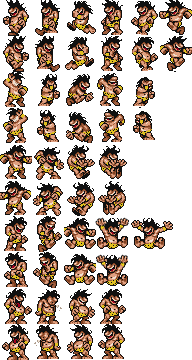
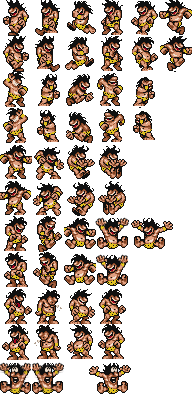
ENEMIES: hello, bears!

diff --git a/pre2.js b/pre2.js
@@ -168,6 +168,7 @@
 	    game.load.spritesheet('lives', './assets/lives.png', 38, 24);
 	    game.load.spritesheet('dino', './assets/dino.png', 42, 36);
 	    game.load.spritesheet('ptero', './assets/pterodactylus.png', 62, 50);
+	    game.load.spritesheet('bear', './assets/bears.png', 44, 44);
 	    game.load.spritesheet('man', './assets/man.png', 32, 36);
 	    game.load.spritesheet('club', './assets/clubs-96x72.png', 96, 36);
 	    
@@ -385,6 +386,9 @@
 	  }
 	  
 	  function onEnemyCollision(hero, enemy){
+	    if(enemy.state === 'dead'){
+	      return;
+	    }
 	    if(man.body.touching.down && enemy.body.touching.up){
 	      if(man.state === 'hitting'){
 	        enemy.die();
@@ -502,7 +506,7 @@
 	    gravity: 500,
 	    bounce: 0.2,
 	    jumping: 300,
-	    maxSpeed: 200,
+	    maxSpeed: 100,
 	    acceleration: 10, 
 	    lives: 1, 
 	    lifespan: 10000,
@@ -526,7 +530,7 @@
 	    ]
 	  },
 	  dino: {
-	    jumping: 400,
+	    jumping: 300,
 	    maxSpeed: 50,
 	    acceleration: 5, 
 	    animations: [
@@ -540,11 +544,18 @@
 	  },
 	  bear: {
 	    acceleration: 15, 
-	    animations: [] 
+	    animations: [
+	      { name: 'moving-right', frames: [4,5,6], fps: 10, loop: true },
+	      { name: 'moving-left', frames: [11,10,9], fps: 10, loop: true },
+	      { name: 'spawn-right', frames: [0,1,2,3], fps: 10, loop: false },
+	      { name: 'spawn-left', frames: [15,14,13,12], fps: 10, loop: false },
+	      { name: 'dead-right', frames: [7], fps: 10, loop: true },
+	      { name: 'dead-left', frames: [8], fps: 10, loop: true }
+	    ] 
 	  },
 	  'super-bear': {
 	    acceleration: 30,
-	    maxSpeed: 400,
+	    maxSpeed: 200,
 	    image: 'super-bear-sprite-ref', // override sprite (creature name by default)
 	    animations: []
 	  },
@@ -615,6 +626,16 @@
 	      mixins.moveRight.call(this, overrideAcc) : 
 	      mixins.moveLeft.call(this, overrideAcc);
 	  },
+	  turnIfBlocked: function(){
+	    if(this.body.blocked.left){ 
+	      mixins.moveRight.call(this); 
+	      this.state = 'moving';
+	    }
+	    if(this.body.blocked.right){ 
+	      mixins.moveLeft.call(this); 
+	      this.state = 'moving';
+	    }
+	  },
 	  jump: function(){
 	    if(this.body.touching.down || this.body.blocked.down){
 	      this.body.velocity.y -= this.props.jumping;
@@ -640,8 +661,9 @@
 	  },
 	  die: function(){
 	    this.state = 'dead';
-	    this.body.velocity.y -= Math.random() * 500;
-	    this.game.time.events.add(Phaser.Timer.SECOND * 1, this.kill, this);
+	    this.body.velocity.y -= Math.random() * 800;
+	    // http://www.html5gamedevs.com/topic/6429-use-phasertime-like-settimeout/
+	    this.game.time.events.add(Phaser.Timer.SECOND * 2, this.kill, this);
 	  },
 	  see: function(){},
 	  sniff: function(enemy){
@@ -685,15 +707,23 @@
 	    this.move = mixins.move;
 	    this.jump = mixins.jump;
 	    this.wait = mixins.wait;
+	    this.turnIfBlocked = mixins.turnIfBlocked;
 	    this.die = mixins.die;
 	    return this;
 	  },
 	  ptero: function(){
 	    this.moveRight = mixins.moveRight;
 	    this.moveLeft = mixins.moveLeft;
+	    this.turnIfBlocked = mixins.turnIfBlocked;
 	    this.descend = mixins.descend;
 	    this.ascend = mixins.ascend;
 	    return this;
+	  },
+	  bear: function(){
+	    this.moveRight = mixins.moveRight;
+	    this.moveLeft = mixins.moveLeft;
+	    this.turnIfBlocked = mixins.turnIfBlocked;
+	    this.die = mixins.die;
 	  }
 	};
 
@@ -702,19 +732,15 @@
 	  dino: function(){
 	    this.play(this.state + '-' + this.direction());
 	    if(this.state !== 'dead'){
+	      this.turnIfBlocked();
 	      this.move();
 	      this.x <= 0 ? this.x = this.game.world.width : this.x;
+	      if(Math.random() < 0.005){ 
+	        this.facingRight = !this.facingRight;
+	      }
 	      if(Math.random() < 0.05){ 
 	        this.jump(); 
 	        this.state = 'jumping';
-	      }
-	      if(this.body.blocked.left){ 
-	        this.moveRight(); 
-	        this.state = 'moving';
-	      }
-	      if(this.body.blocked.right){ 
-	        this.moveLeft(); 
-	        this.state = 'moving';
 	      }
 	    }
 	  },
@@ -722,7 +748,8 @@
 	    this.play(this.state + '-' + this.direction());
 	    this.move();
 	    this.state = 'fly';
-	    this.x = this.x <= this.width * 0.5 ? this.game.world.width - 5 : this.x;
+	    //this.x = this.x <= this.width * 0.5 ? this.game.world.width - 5 : this.x;
+	    this.turnIfBlocked();
 	    if(Math.random() < 0.01){
 	      this.game.time.events.add(Phaser.Timer.SECOND * 1, function(){
 	        this.state = 'descend';
@@ -736,6 +763,12 @@
 	      }, this);
 	    }
 	    //this.x = this.x <= this.game.world.width - (this.width * 0.5) ? this.x : 0;
+	  },
+	  bear: function(){
+	    this.play(this.state + '-' + this.direction());
+	    this.turnIfBlocked();
+	    this.move();
+	    this.state = 'moving';
 	  },
 	  man: function(){
 	    
@@ -995,6 +1028,20 @@
 	    randomWorldPoint: function(){
 	      return this.randomPointIn(0, 0, game.world.width, game.world.height);
 	    },
+	    fate: {
+	      sometimes: function(){
+	        return Math.random() < 0.5;
+	      },
+	      rarely: function(){
+	        return Math.random() < 0.1;
+	      },
+	      hardly: function(){
+	        return Math.random() < 0.05;
+	      },
+	      hardlyEver: function(){
+	        return Math.random() < 0.01;
+	      }
+	    },
 	    debugZone: function(x, y, width, height){
 	      var graphics = game.add.graphics(x, y);
 	      window.graphics = graphics;
@@ -1031,7 +1078,7 @@
 	        spawn: [
 	          { type: 'dino', number: 3, lifespan: Infinity },
 	          { type: 'ptero', number: 2, lifespan: Infinity  },
-	          { type: 'bear', number: 0, lifespan: Infinity  }
+	          { type: 'bear', number: 2, lifespan: Infinity  }
 	        ]
 	      }, {
 	        id: 1,

diff --git a/js/classes/movements.js b/js/classes/movements.js
@@ -23,6 +23,16 @@ var mixins = {
       mixins.moveRight.call(this, overrideAcc) : 
       mixins.moveLeft.call(this, overrideAcc);
   },
+  turnIfBlocked: function(){
+    if(this.body.blocked.left){ 
+      mixins.moveRight.call(this); 
+      this.state = 'moving';
+    }
+    if(this.body.blocked.right){ 
+      mixins.moveLeft.call(this); 
+      this.state = 'moving';
+    }
+  },
   jump: function(){
     if(this.body.touching.down || this.body.blocked.down){
       this.body.velocity.y -= this.props.jumping;
@@ -94,15 +104,23 @@ var behaviours = {
     this.move = mixins.move;
     this.jump = mixins.jump;
     this.wait = mixins.wait;
+    this.turnIfBlocked = mixins.turnIfBlocked;
     this.die = mixins.die;
     return this;
   },
   ptero: function(){
     this.moveRight = mixins.moveRight;
     this.moveLeft = mixins.moveLeft;
+    this.turnIfBlocked = mixins.turnIfBlocked;
     this.descend = mixins.descend;
     this.ascend = mixins.ascend;
     return this;
+  },
+  bear: function(){
+    this.moveRight = mixins.moveRight;
+    this.moveLeft = mixins.moveLeft;
+    this.turnIfBlocked = mixins.turnIfBlocked;
+    this.die = mixins.die;
   }
 };
 
@@ -111,6 +129,7 @@ var updates = {
   dino: function(){
     this.play(this.state + '-' + this.direction());
     if(this.state !== 'dead'){
+      this.turnIfBlocked();
       this.move();
       this.x <= 0 ? this.x = this.game.world.width : this.x;
       if(Math.random() < 0.005){ 
@@ -120,21 +139,14 @@ var updates = {
         this.jump(); 
         this.state = 'jumping';
       }
-      if(this.body.blocked.left){ 
-        this.moveRight(); 
-        this.state = 'moving';
-      }
-      if(this.body.blocked.right){ 
-        this.moveLeft(); 
-        this.state = 'moving';
-      }
     }
   },
   ptero: function(){
     this.play(this.state + '-' + this.direction());
     this.move();
     this.state = 'fly';
-    this.x = this.x <= this.width * 0.5 ? this.game.world.width - 5 : this.x;
+    //this.x = this.x <= this.width * 0.5 ? this.game.world.width - 5 : this.x;
+    this.turnIfBlocked();
     if(Math.random() < 0.01){
       this.game.time.events.add(Phaser.Timer.SECOND * 1, function(){
         this.state = 'descend';
@@ -148,6 +160,12 @@ var updates = {
       }, this);
     }
     //this.x = this.x <= this.game.world.width - (this.width * 0.5) ? this.x : 0;
+  },
+  bear: function(){
+    this.play(this.state + '-' + this.direction());
+    this.turnIfBlocked();
+    this.move();
+    this.state = 'moving';
   },
   man: function(){
     

diff --git a/js/configs/creatureConfigs.js b/js/configs/creatureConfigs.js
@@ -5,7 +5,7 @@ var creatureConfigs = {
     gravity: 500,
     bounce: 0.2,
     jumping: 300,
-    maxSpeed: 200,
+    maxSpeed: 100,
     acceleration: 10, 
     lives: 1, 
     lifespan: 10000,
@@ -29,7 +29,7 @@ var creatureConfigs = {
     ]
   },
   dino: {
-    jumping: 400,
+    jumping: 300,
     maxSpeed: 50,
     acceleration: 5, 
     animations: [
@@ -43,11 +43,18 @@ var creatureConfigs = {
   },
   bear: {
     acceleration: 15, 
-    animations: [] 
+    animations: [
+      { name: 'moving-right', frames: [4,5,6], fps: 10, loop: true },
+      { name: 'moving-left', frames: [11,10,9], fps: 10, loop: true },
+      { name: 'spawn-right', frames: [0,1,2,3], fps: 10, loop: false },
+      { name: 'spawn-left', frames: [15,14,13,12], fps: 10, loop: false },
+      { name: 'dead-right', frames: [7], fps: 10, loop: true },
+      { name: 'dead-left', frames: [8], fps: 10, loop: true }
+    ] 
   },
   'super-bear': {
     acceleration: 30,
-    maxSpeed: 400,
+    maxSpeed: 200,
     image: 'super-bear-sprite-ref', // override sprite (creature name by default)
     animations: []
   },

diff --git a/js/gamestates/play.js b/js/gamestates/play.js
@@ -68,6 +68,7 @@ function Play(game, settings){
     game.load.spritesheet('lives', './assets/lives.png', 38, 24);
     game.load.spritesheet('dino', './assets/dino.png', 42, 36);
     game.load.spritesheet('ptero', './assets/pterodactylus.png', 62, 50);
+    game.load.spritesheet('bear', './assets/bears.png', 44, 44);
     game.load.spritesheet('man', './assets/man.png', 32, 36);
     game.load.spritesheet('club', './assets/clubs-96x72.png', 96, 36);
     

diff --git a/js/configs/levelConfigs.js b/js/configs/levelConfigs.js
@@ -19,7 +19,7 @@ var levelConfigs = [
         spawn: [
           { type: 'dino', number: 3, lifespan: Infinity },
           { type: 'ptero', number: 2, lifespan: Infinity  },
-          { type: 'bear', number: 0, lifespan: Infinity  }
+          { type: 'bear', number: 2, lifespan: Infinity  }
         ]
       }, {
         id: 1,
